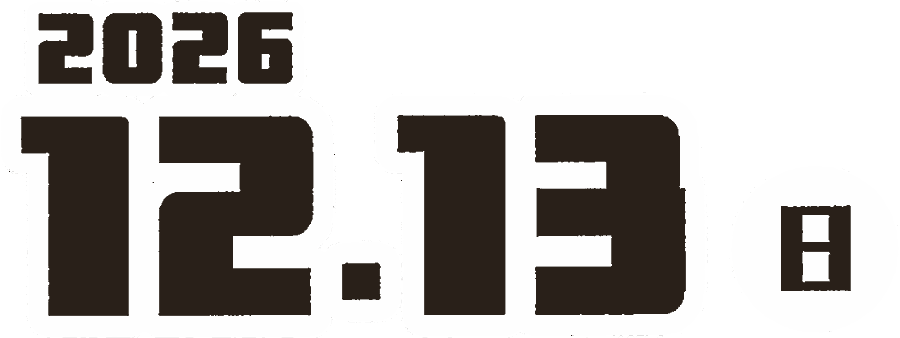
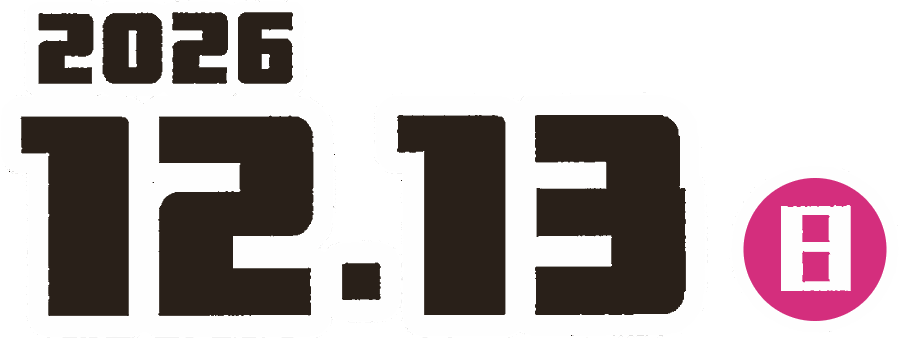
fq-flyer2-v1: ピンクを明るく／「日」の丸をチラシの色に／時間をチラシの書体（絵）に／3F・4Fの注記を追加

Changed region(s): [[0.8089, 0.503, 0.9956, 0.9467]]

diff --git a/index.html b/index.html
@@ -66,7 +66,11 @@ const FQ = {
     date:     '2026年12月13日',
     youbi:    '日',
     dateISO:  '2026-12-13T10:00:00+09:00',   // カウントダウンに使います
-    time:     '10:00〜17:00',   /* ★fq-logo2026-v1: チラシに合わせた。3F・4Fは16:00まで */
+    /* ★fq-flyer2-v1: 時間と添え書きは絵（img/time.png / img/time_note.png）。
+       下の2つは、その絵の読み上げ文（alt）として使う。
+       ★時間を変えるときは、絵も作り直すこと。文字だけ直しても画面は変わらない。 */
+    time:     '10:00〜17:00',
+    timeNote: '3F・4Fは16:00まで',
     place:    '豊田市福祉センター',
     address:  '〒471-0877 愛知県豊田市錦町1-1-1',
     host:     '豊田市社会福祉協議会 主催',
@@ -358,7 +362,10 @@ const FQ = {
     /* チラシから実際に色を取りました */
     --yellow:#E7DE01; --yellow-l:#F1EE6A; --yellow-d:#D9D000;
     --pink:#E84686; --blue:#1186CE; --orange:#E75409; --green:#2FA84F;
-    --free-ink:#B83A77;   /* fq-freecolor-v1: 「入場無料」の文字と輪。チラシから実測 */
+    --free-ink:#D42C7C;   /* 「入場無料」の文字と輪／日付の「日」の丸。
+                             fq-freecolor-v1 ではチラシの実測どおりの色だったが、
+                             画面で見るとくすむので fq-flyer2-v1 で明るいほうへ寄せた。
+                             ★img/date.png の「日」の丸も同じ色。片方だけ直さないこと */
     --ink:#36271E; --paper:#FFFDF5; --line:#E4DCC8; --muted:#8B7F6E;
   }
   *{box-sizing:border-box;-webkit-tap-highlight-color:transparent;margin:0;padding:0;}
@@ -1544,6 +1551,29 @@ const FQ = {
   .when2{font-size:clamp(14px,4.2vw,19px);letter-spacing:.02em;}
   .when3{font-size:clamp(13px,3.9vw,18px);}
 
+  /* ══ fq-flyer2-v1 : 時間もチラシから切り出した絵にする ══
+     時間の書体を日付とそろえたい、というご要望。
+     日付（12.13）は文字ではなく絵なので、同じ見た目にするには時間も絵にするしかない。
+     Webの書体では、あの角ばった形にどうしても届かない（日付のときに確認済み）。
+
+     ★白い角丸の箱はやめる。チラシの時間は箱に入っておらず、
+       絵そのものに白いフチが付いている。
+     ★会場名（.when3）は触っていない。チラシも白い角丸のままだから。
+
+     ★★大きさは「日付とのつり合い」で決めた値。
+       チラシでは 10:00〜17:00 と 12.13 がほぼ同じ幅だが、
+       そのまま合わせると画面では時間が小さくなりすぎて読めない。
+       少し大きめの 45.5vw にしてある。
+       ★日付の絵を作り直したら、ここも見直すこと。
+     ★align-items:flex-end ＝ 添え書きを時間の「下ぞろえ」にする。
+       まん中ぞろえだと、2行の添え書きが時間より上に飛び出して見える。 */
+  .when2{background:none;border-radius:0;padding:0;max-width:96%;
+        display:flex;align-items:flex-end;justify-content:center;
+        gap:clamp(7px,2.4vw,13px);}
+  .when2 .w2t{width:clamp(152px,45.5vw,256px);height:auto;display:block;}
+  .when2 .w2n{width:clamp(40px,11.6vw,66px);height:auto;display:block;
+        margin-bottom:clamp(1px,0.6vw,4px);}
+
   /* カウントダウン（日・時間・分・秒の4つ）
      ★tabular-nums ＝ 数字の幅をぜんぶ同じにする指定。
        これが無いと、1秒ごとに数字の幅が変わって枠がぴくぴく動きます。 */
@@ -2438,7 +2468,12 @@ const FQ = {
       .map(x => '<p>' + esc(x).replace('「福祉」','<em>「福祉」</em>') + '</p>').join('');
   // 日付はチラシから切り出した絵。読み上げ用の文だけ FQ から入れる
   $('#when').alt = E.date + '（' + E.youbi + '）';
-  $('#when2').textContent = E.time;
+  /* ★fq-flyer2-v1: 時間と添え書きはチラシから切り出した絵。
+     文字は読み上げ用（alt）に入れている。 */
+  $('#when2').innerHTML =
+      '<img class="w2t" src="img/time.png" alt="' + esc(E.time) + '" decoding="async">'
+    + (E.timeNote ? '<img class="w2n" src="img/time_note.png" alt="'
+        + esc(E.timeNote) + '" decoding="async">' : '');
   $('#when3').textContent = E.place;
   // 「広が／る！」のように変なところで折れないよう、読点で区切って語のまとまりを保つ
   $('#lead').innerHTML = E.lead.split('、').map((x,i,a) =>

diff --git a/service-worker.js b/service-worker.js
@@ -12,7 +12,10 @@
        つながらない時だけキャッシュを出す（＝オフラインでも開ける）。
      - アイコン・manifest だけ「キャッシュ優先」（変わらないので速さ優先）。
    ------------------------------------------------------------------ */
-const CACHE = 'fq326-v17';  // fq-cut-v1: トップのキャラを切り抜き直したので版を上げる
+const CACHE = 'fq326-v18';  // fq-flyer2-v1: img/date.png の中身を差し替えたので版を上げる
+// ★名前を変えずに絵の中身だけ差し替えたときは、必ずここを上げること。
+//   上げないと、端末に残った古い絵（白い丸の「日」）が出続ける。
+//   ★名前が新しい絵（time.png / time_note.png）は、上げなくても出る。
 // ★画像は下で「キャッシュ優先」にしている。版を上げないと、
 //   一度端末に取り込まれた古い絵がいつまでも出続ける。
 //   ★img/ の絵を差し替えたら、必ずここの数字を上げること。

diff --git a/README.md b/README.md
@@ -5609,3 +5609,78 @@ Instagramへは**プロフィールの中から**飛ぶ形にした。
 - 紙から色を拾う → **地色のような中間の色でズレを測ってから使う**
 - 輪がずれる → `border-radius:inherit` が抜けていないか
 - 文字が押し出される → `::before` に `position:absolute` が抜けていないか
+
+---
+
+## `fq-flyer2-v1` — 日付まわりをチラシにそろえた（2026-09-26）
+
+### やったこと
+
+| | 前 | 後 |
+|---|---|---|
+| 入場無料の文字と輪 | `#B83A77` | **`#D42C7C`**（明るいほうへ） |
+| 日付の「日」の丸 | 白い丸に黒い文字 | **ピンクの丸に白い文字** |
+| 時間 | 白い角丸の箱・Webの書体 | **チラシから切り出した絵**（日付と同じ書体） |
+| 3F・4Fの注記 | 無し | **「3F・4Fは16:00まで」を追加**（これも絵） |
+| 会場名 | 白い角丸 | **そのまま**（チラシも角丸） |
+
+### ①②ピンク
+
+チラシから実測した `#B83A77` は、画面で見ると少しくすんで見えた。
+明るいほうへ寄せて **`#D42C7C`**。
+
+★**「入場無料」と「日」の丸は同じ色。片方だけ直さないこと。**
+「入場無料」は CSS（`--free-ink`）、「日」は絵（`img/date.png`）と、
+置き場所が違うので忘れやすい。
+
+### ②「日」の丸は絵だった
+
+チラシは **ピンクの丸に白い「日」**。アプリの絵は **白い丸に黒い「日」**。
+前にチラシから切り出したときに色が飛んだらしい。
+
+直しかた: 白い丸を見つけて、半径の **85.9%** までをピンクで塗る。
+残った外側が白いフチになる（85.9% はチラシの実測値。
+ピンクの直径61px / 白フチまで71px）。「日」の黒い部分は白へ。
+
+### ③時間も絵にした ★考え方
+
+**「日付と同じ書体にしたい」＝「絵にするしかない」。**
+日付（12.13）は文字ではなくチラシを切り出した絵で、
+Webの書体ではあの角ばった形に届かないことは日付のときに確認済み。
+
+紙から文字を切り出す手順（毎回これ）:
+
+1. PDFを **500dpi** で画像にする（`pdftoppm -r 500 -png`）
+2. 必要なところだけ切り出す
+3. **黄色い地色を透明にする**。見分け方は「緑が青より45以上高い」。
+   地の色が少しムラになっていても効く
+4. ★**透明にする画素の色を、先に白へ置きかえる**。
+   これをしないと、縮めたときに縁へ黄色がにじみ出る
+5. 色を白と黒へ寄せる（スキャンの紙のざらつきが落ちる）
+6. **色をアルファで掛けてから縮め、あとで割り戻す**（premultiply）。
+   そのまま縮めると、透明なところの色が混ざって縁が濁る
+7. 色数64のPNGで書き出し（`time.png` 15KB / `time_note.png` 13KB）
+
+大きさは日付とのつり合いで決めた。
+
+★チラシでは `10:00〜17:00` と `12.13` がほぼ同じ幅だが、
+そのまま合わせると画面では時間が小さくなりすぎて読めない。
+少し大きめの **45.5vw** にしてある。**日付の絵を作り直したら、ここも見直すこと。**
+
+### ★絵の名前と `CACHE` の関係（毎回ここで迷う）
+
+| | 版を上げる？ |
+|---|---|
+| `time.png` / `time_note.png`（**新しい名前**） | **不要** |
+| `date.png`（**同じ名前のまま中身だけ差し替え**） | **必要** |
+
+なので `service-worker.js` の `CACHE` を `fq326-v17` → **`fq326-v18`** にした。
+上げないと、端末に残った古い絵（白い丸の「日」）が出続ける。
+
+### 次に同じことがあったときの調べ方
+
+- 色を変えたのに「日」だけ変わらない → それは**絵**。`img/date.png` を作り直す
+- 絵を差し替えたのに古いまま出る → `service-worker.js` の `CACHE` を上げたか
+- 切り出した絵の縁が黄色っぽい → 透明にする画素を**白に置きかえてから**縮めたか
+- 時間を変えることになった → **絵を作り直す**。`FQ.event.time` は読み上げ文なので、
+  そこだけ直しても画面は変わらない
